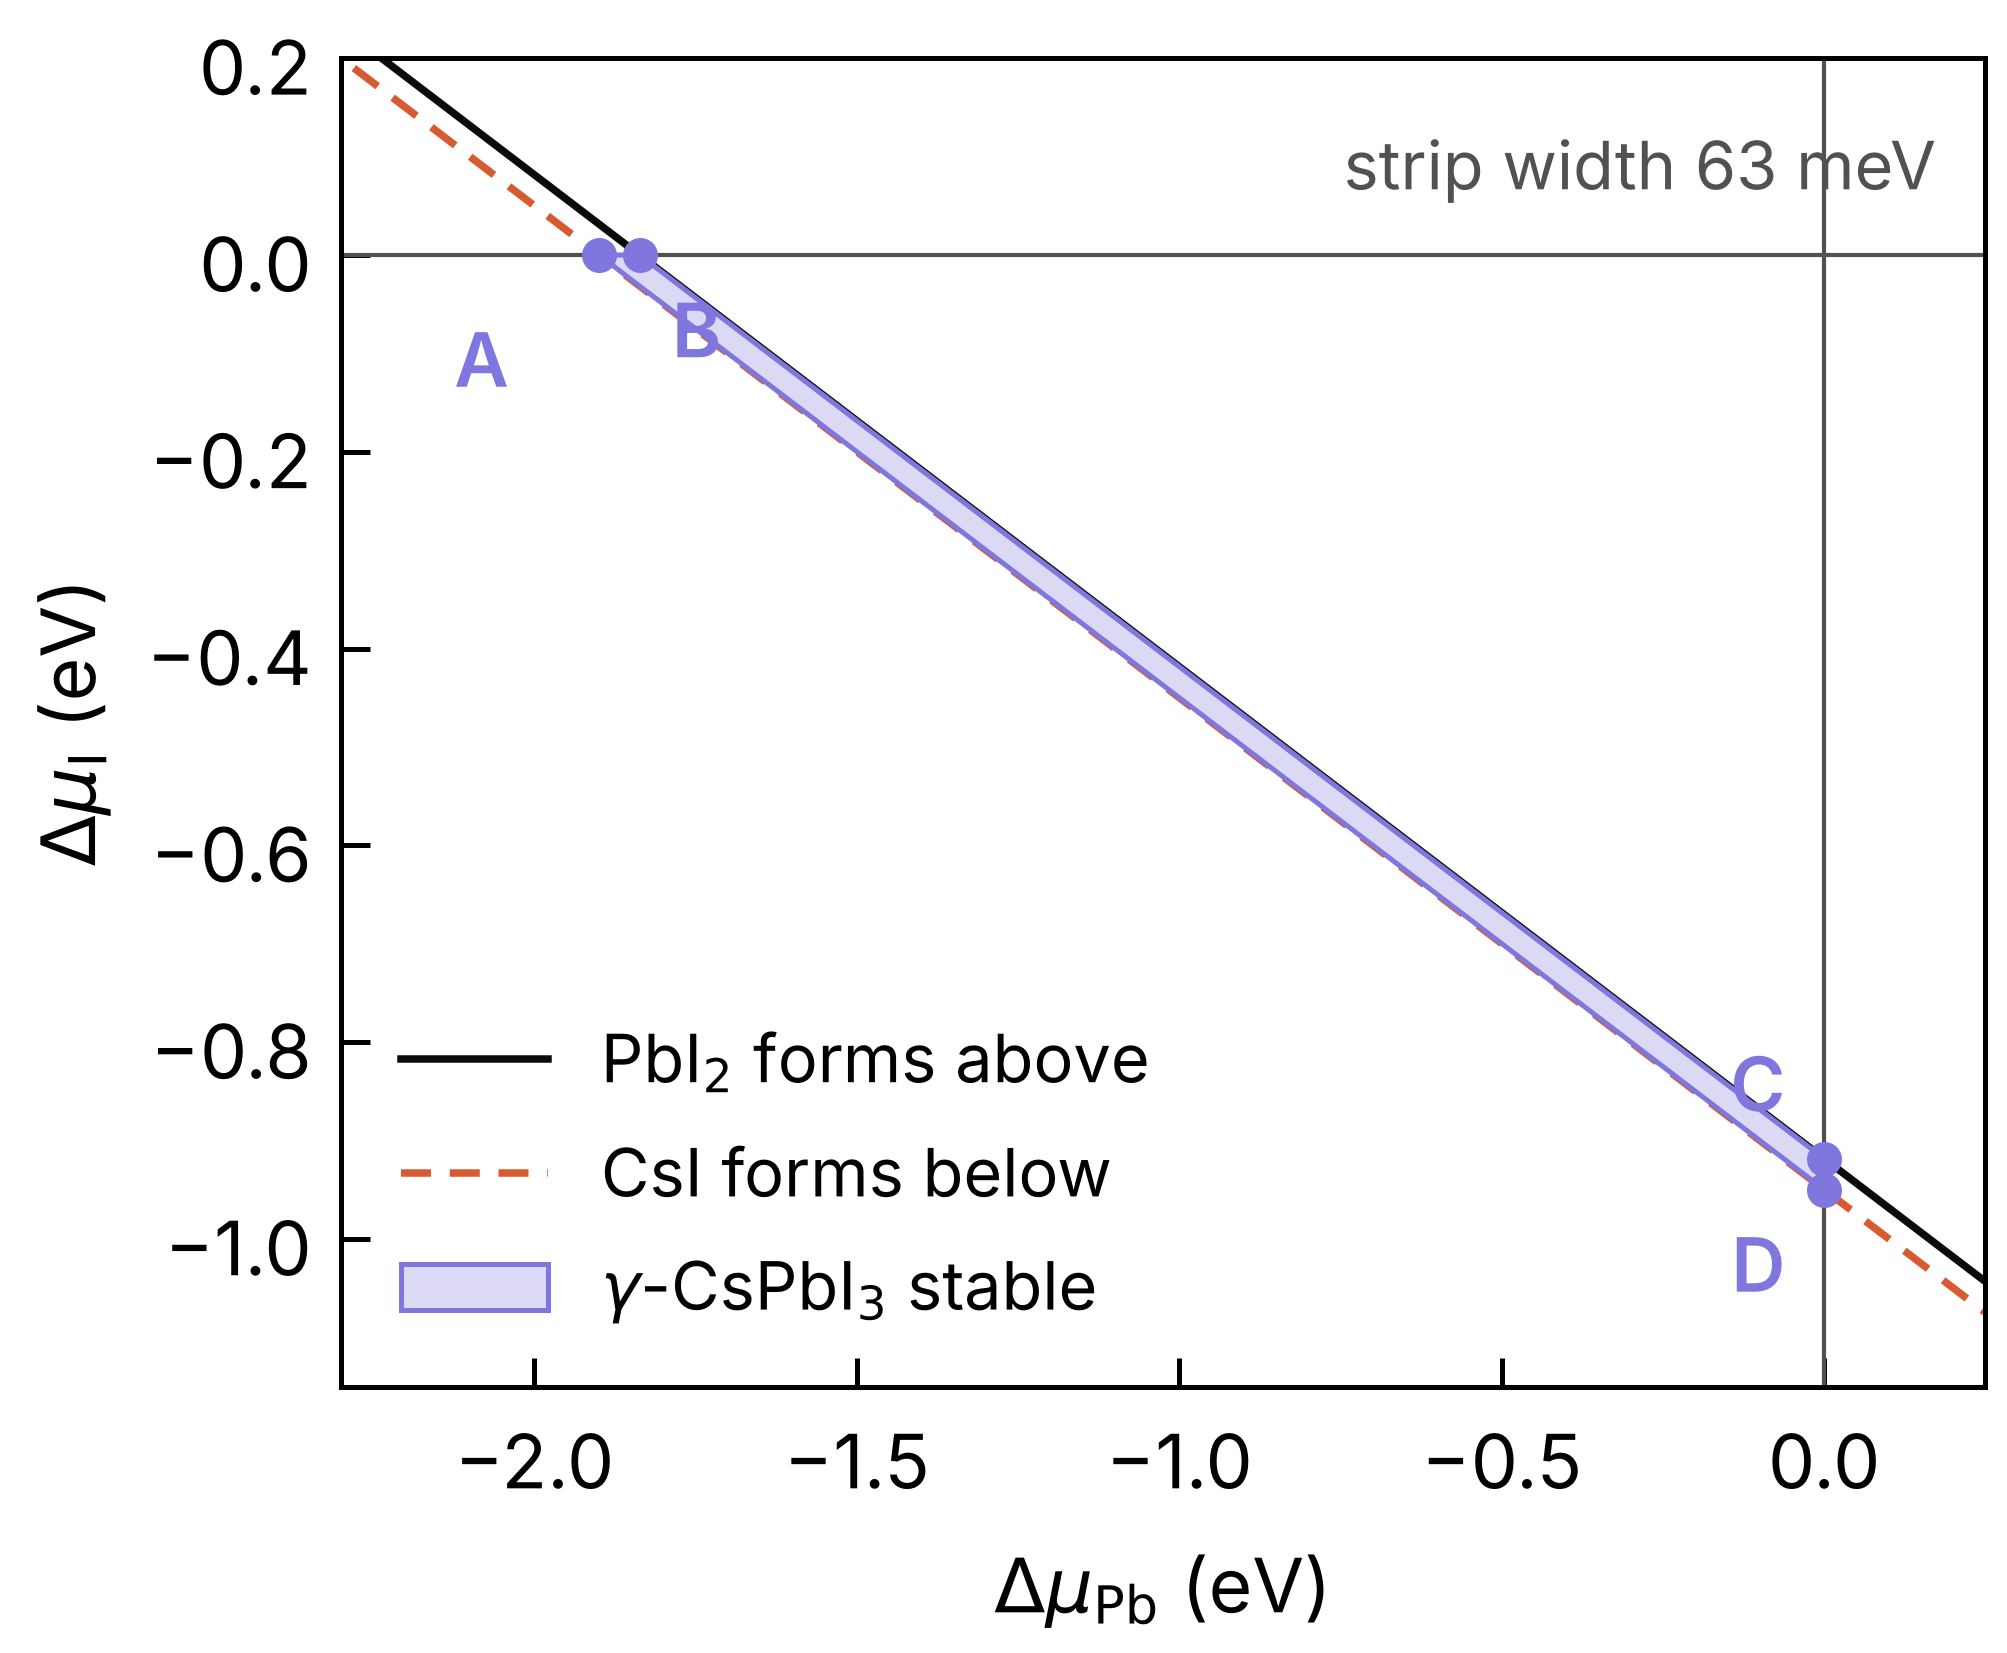
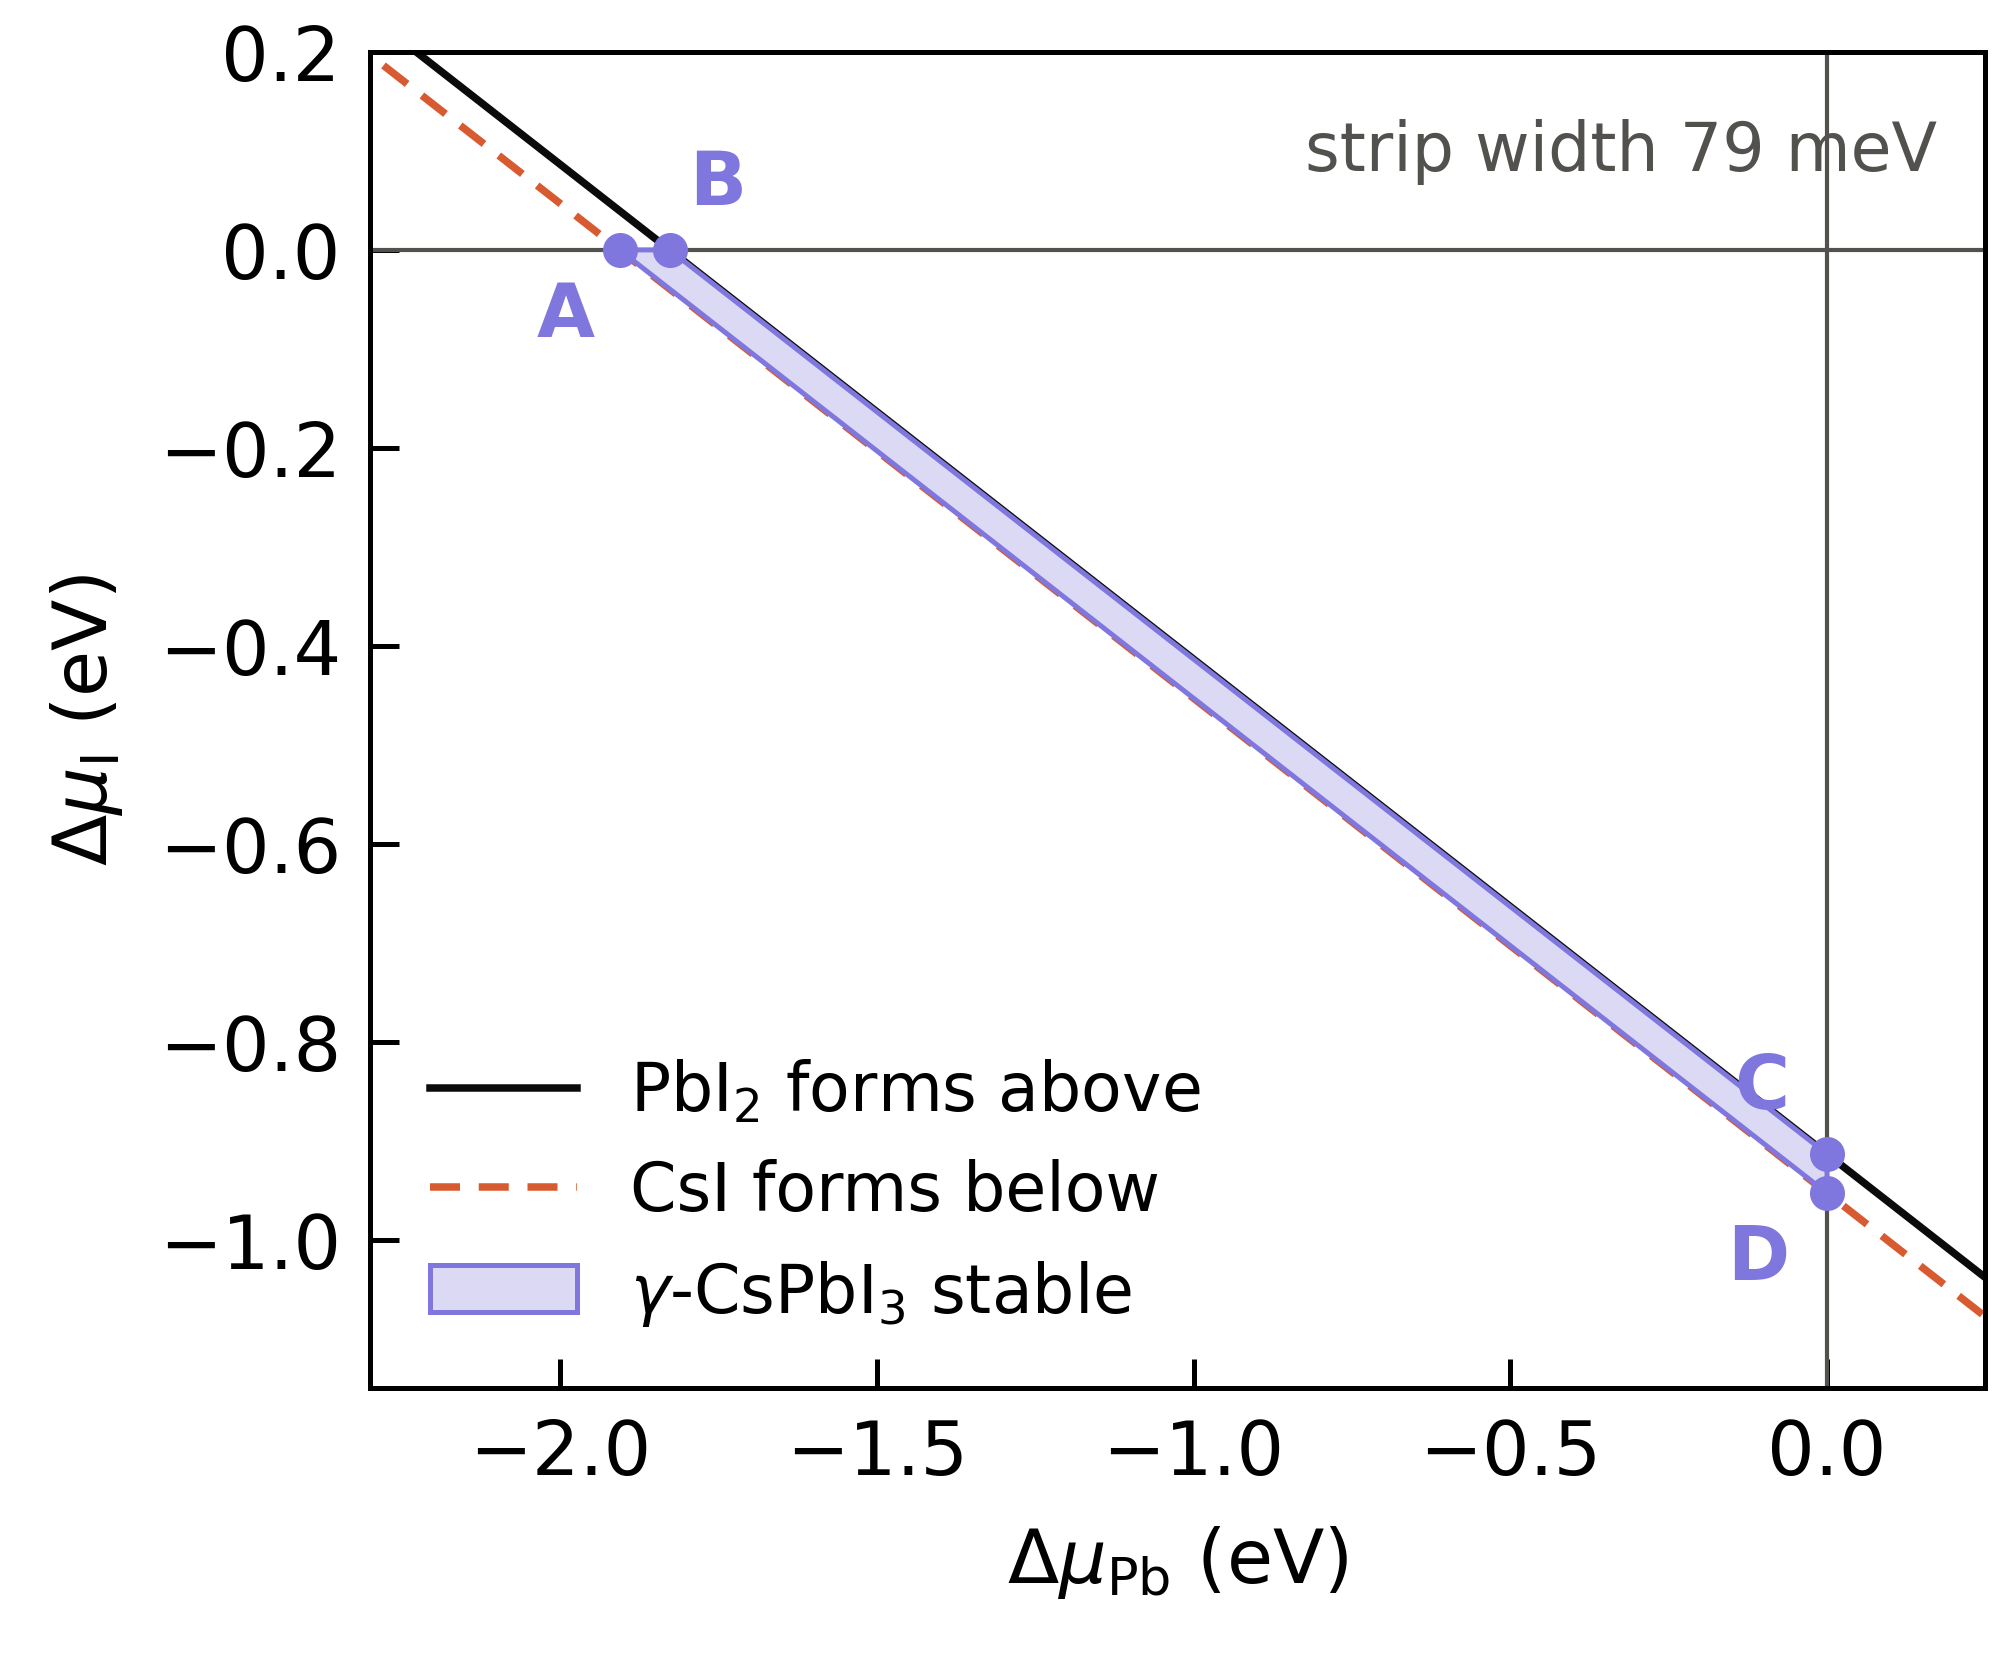
Stability region from the VASP enthalpies
tools/stability_region.py draws the strip from the VASP formation
enthalpies (79 meV, I-poor corner at -0.953 eV); the QE figure is kept
as stability_region_qe.png. README: delta-CsPbI3 cannot bound the
strip (same composition), it enters as the gamma-delta energy.

Claude-Session: https://claude.ai/code/session_01AGSrWS61GTwQgQwxt4BD4a

diff --git a/tools/stability_region.py b/tools/stability_region.py
@@ -1,0 +1,122 @@
+#!/usr/bin/env python3
+"""
+Chemical-potential stability region of gamma-CsPbI3 from the VASP energies (step 5).
+
+Formation enthalpies (eV per formula unit) from the VASP reference phases (job 217911)
+and the relaxed gamma unit cell / 4 (job 217910); elements bcc Cs, fcc Pb, solid I2.
+
+Conditions (Delta mu_i = mu_i - mu_i(element)):
+    Delta mu_Cs + Delta mu_Pb + 3 Delta mu_I = DH(CsPbI3)      (CsPbI3 forms)
+    every Delta mu_i <= 0                                      (no element precipitates)
+    Delta mu_Cs + Delta mu_I   <= DH(CsI)                      (no CsI)
+    Delta mu_Pb + 2 Delta mu_I <= DH(PbI2)                     (no PbI2)
+delta-CsPbI3 has the same composition, so it cannot be a boundary: it either leaves the
+region unchanged (if above gamma) or removes it (if below), and gamma is then treated as
+metastable, as is usual for the perovskite phases.
+
+Writes assets/stability_region.png and vasp/05_reference_phases/stability_region.txt.
+Run from the project root:  python3 tools/stability_region.py
+"""
+
+import itertools
+import os
+
+import matplotlib
+matplotlib.use("Agg")
+import matplotlib.pyplot as plt
+import numpy as np
+from matplotlib import font_manager
+from matplotlib.patches import Polygon
+
+DH_VASP = {"CsI": -3.079, "PbI2": -1.827, "CsPbI3": -4.985}   # eV per formula unit
+
+# ---- figure style (same as the other project figures) ---------------------------
+FONT = "Inter" if any(f.name == "Inter" for f in font_manager.fontManager.ttflist) else "DejaVu Sans"
+plt.rcParams.update({"font.family": FONT, "font.size": 9, "axes.linewidth": 0.6,
+                     "xtick.major.width": 0.6, "ytick.major.width": 0.6,
+                     "xtick.direction": "in", "ytick.direction": "in"})
+CM = 1 / 2.54
+TXT, MUT, ORANGE, PURPLE, FILL = "#0B0B0B", "#52514E", "#D85A30", "#7F77DD", "#DCD9F5"
+# ------------------------------------------------------------------------------
+
+
+def load():
+    return dict(DH_VASP)
+
+
+def region(dh):
+    """Vertices of {A x <= b} in x = (dmu_Pb, dmu_I)."""
+    H = dh["CsPbI3"]
+    A = np.array([[1, 0], [0, 1],            # dmu_Pb <= 0, dmu_I <= 0
+                  [-1, -3],                  # dmu_Cs <= 0
+                  [-1, -2],                  # no CsI
+                  [1, 2]])                   # no PbI2
+    b = np.array([0, 0, -H, -(H - dh["CsI"]), dh["PbI2"]])
+    pts = []
+    for i, j in itertools.combinations(range(len(A)), 2):
+        M = A[[i, j]]
+        if abs(np.linalg.det(M)) < 1e-12:
+            continue
+        x = np.linalg.solve(M, b[[i, j]])
+        if np.all(A @ x <= b + 1e-9):
+            pts.append(x)
+    pts = np.unique(np.round(pts, 6), axis=0)
+    c = pts.mean(axis=0)
+    return pts[np.argsort(np.arctan2(pts[:, 1] - c[1], pts[:, 0] - c[0]))]
+
+
+def main():
+    dh = load()
+    H = dh["CsPbI3"]
+    V = region(dh)
+    names = {}
+    # label the corners: I-rich end (dmu_I = 0) and I-poor end (dmu_Pb = 0)
+    for v in V:
+        if abs(v[1]) < 1e-6:
+            names[tuple(v)] = "A" if v[0] < V[:, 0][np.abs(V[:, 1]) < 1e-6].max() else "B"
+        elif abs(v[0]) < 1e-6:
+            names[tuple(v)] = "C" if v[1] > V[:, 1][np.abs(V[:, 0]) < 1e-6].min() else "D"
+
+    fig, ax = plt.subplots(figsize=(8.5 * CM, 7.0 * CM))
+    xs = np.linspace(-2.4, 0.3, 50)
+    ax.plot(xs, (dh["PbI2"] - xs) / 2, color=TXT, lw=0.9, label="PbI$_2$ forms above")
+    ax.plot(xs, (H - dh["CsI"] - xs) / 2, color=ORANGE, lw=0.9, ls=(0, (4, 2.5)), label="CsI forms below")
+    ax.add_patch(Polygon(V, closed=True, fc=FILL, ec=PURPLE, lw=0.6, zorder=3,
+                         label="$\\gamma$-CsPbI$_3$ stable"))
+    for v in V:
+        n = names.get(tuple(v))
+        if n:
+            ax.plot(*v, "o", ms=3.2, color=PURPLE, zorder=4)
+            dx, dy, ha, va = {"A": (-0.04, -0.03, "right", "top"), "B": (0.03, 0.03, "left", "bottom"),
+                              "C": (-0.06, 0.03, "right", "bottom"), "D": (-0.06, -0.03, "right", "top")}[n]
+            ax.text(v[0] + dx, v[1] + dy, n, color=PURPLE, ha=ha, va=va, fontweight="semibold", zorder=5)
+    ax.axhline(0, color=MUT, lw=0.5)
+    ax.axvline(0, color=MUT, lw=0.5)
+    ax.set_xlim(-2.3, 0.25)
+    ax.set_ylim(-1.15, 0.2)
+    ax.set_xlabel("$\\Delta\\mu_{\\mathrm{Pb}}$ (eV)")
+    ax.set_ylabel("$\\Delta\\mu_{\\mathrm{I}}$ (eV)")
+    ax.legend(frameon=False, loc="lower left", fontsize=8, handlelength=2.2)
+    ax.text(0.97, 0.95, "strip width %.0f meV" % ((dh["PbI2"] - H + dh["CsI"]) * 1000),
+            transform=ax.transAxes, ha="right", va="top", color=MUT, fontsize=8)
+    fig.tight_layout(pad=0.3)
+    os.makedirs("assets", exist_ok=True)
+    fig.savefig("assets/stability_region.png", dpi=600, facecolor="white")
+
+    rep = ["Stability region of gamma-CsPbI3 (VASP PBEsol, elements: bcc Cs, fcc Pb, solid I2)", "",
+           "Formation enthalpies (eV per formula unit):"]
+    rep += ["  %-7s %8.3f" % (k, v) for k, v in dh.items()]
+    rep += ["", "Decomposition CsPbI3 -> CsI + PbI2: %.3f eV per formula unit (negative = CsPbI3 stable)"
+            % (H - dh["CsI"] - dh["PbI2"]), "",
+            "Corners (eV):   dmu_Cs    dmu_Pb    dmu_I"]
+    for v in V:
+        n = names.get(tuple(v), "-")
+        rep.append("  %s           %7.3f   %7.3f   %7.3f" % (n, H - v[0] - 3 * v[1], v[0], v[1]))
+    rep += ["", "A, B: iodine-rich (dmu_I = 0). C, D: lead-rich, iodine-poor (dmu_Pb = 0).",
+            "Cs4PbI6 and CsPb2I5 not included (published phase diagrams cited instead)."]
+    open("vasp/05_reference_phases/stability_region.txt", "w").write("\n".join(rep) + "\n")
+    print("\n".join(rep))
+
+
+if __name__ == "__main__":
+    main()

diff --git a/qe/05_reference_phases/stability_region.py b/qe/05_reference_phases/stability_region.py
@@ -14,7 +14,7 @@ Conditions (Delta mu_i = mu_i - mu_i(element), elements: bcc Cs, fcc Pb, solid I
 Eliminating Delta mu_Cs leaves a polygon in the (Delta mu_Pb, Delta mu_I) plane.
 delta-CsPbI3 is left out on purpose (same composition; it would empty the region).
 
-Writes assets/stability_region.png and qe/05_reference_phases/stability_region.txt.
+Writes assets/stability_region_qe.png and qe/05_reference_phases/stability_region.txt.
 Run from the project root:  python3 qe/05_reference_phases/stability_region.py
 """
 
@@ -122,7 +122,7 @@ def main():
             transform=ax.transAxes, ha="right", va="top", color=MUT, fontsize=8)
     fig.tight_layout(pad=0.3)
     os.makedirs("assets", exist_ok=True)
-    fig.savefig("assets/stability_region.png", dpi=600, facecolor="white")
+    fig.savefig("assets/stability_region_qe.png", dpi=600, facecolor="white")
 
     rep = ["Stability region of gamma-CsPbI3 (PBEsol, elements: bcc Cs, fcc Pb, solid I2)", "",
            "Formation enthalpies (eV per formula unit):"]

diff --git a/README.md b/README.md
@@ -317,9 +317,9 @@ and the out-of-plane parameter c follows from a fit of the total energy E(c), wi
 | PbI₂ | −1.827 | −1.837 | −1.82 |
 | γ-CsPbI₃ | −4.985 | −4.991 | — |
 
-**Decomposition margin.** γ-CsPbI₃ was stable against CsI + PbI₂ by only **79 meV per formula unit** (QE 63 meV), so the region is a thin strip in the (Δμ_Pb, Δμ_I) plane, running from the iodine-rich end (Δμ_I = 0) to the iodine-poor end (Δμ_I ≈ −0.93 eV). The vacancy formation energy contains +μ_I, so the strip reduces in practice to one variable, Δμ_I. CsI is about 0.5 eV less bound than measured, a known GGA tendency for alkali compounds. Solid I₂ lay 0.31 eV per atom below the I₂ molecule (measured sublimation energy about 0.32 eV). δ-CsPbI₃, Cs₄PbI₆ and CsPb₂I₅ are not yet included and can only shrink the strip.
+**Decomposition margin.** γ-CsPbI₃ was stable against CsI + PbI₂ by only **79 meV per formula unit** (QE 63 meV), so the region is a thin strip in the (Δμ_Pb, Δμ_I) plane, running from the iodine-rich end (Δμ_I = 0, corners A and B) to the iodine-poor end (Δμ_I = −0.953 eV, corner D, in equilibrium with Pb metal and CsI). The vacancy formation energy contains +μ_I, so the strip reduces in practice to one variable, Δμ_I. CsI is about 0.5 eV less bound than measured, a known GGA tendency for alkali compounds. Solid I₂ lay 0.31 eV per atom below the I₂ molecule (measured sublimation energy about 0.32 eV). Cs₄PbI₆ and CsPb₂I₅ are left out, and published phase diagrams are cited for them. δ-CsPbI₃ has the same composition as γ, so it cannot form a boundary of the strip: if δ lies below γ, γ has no stability region at all and is treated as metastable, as is usual for the perovskite phases. The γ–δ energy enters instead as ΔE_γδ against strain (Part C).
 
-![Stability region (Quantum ESPRESSO values)](assets/stability_region.png)
+![Stability region (VASP values)](assets/stability_region.png)
 
 ### 5.5 Iodine vacancy: site energies
 
